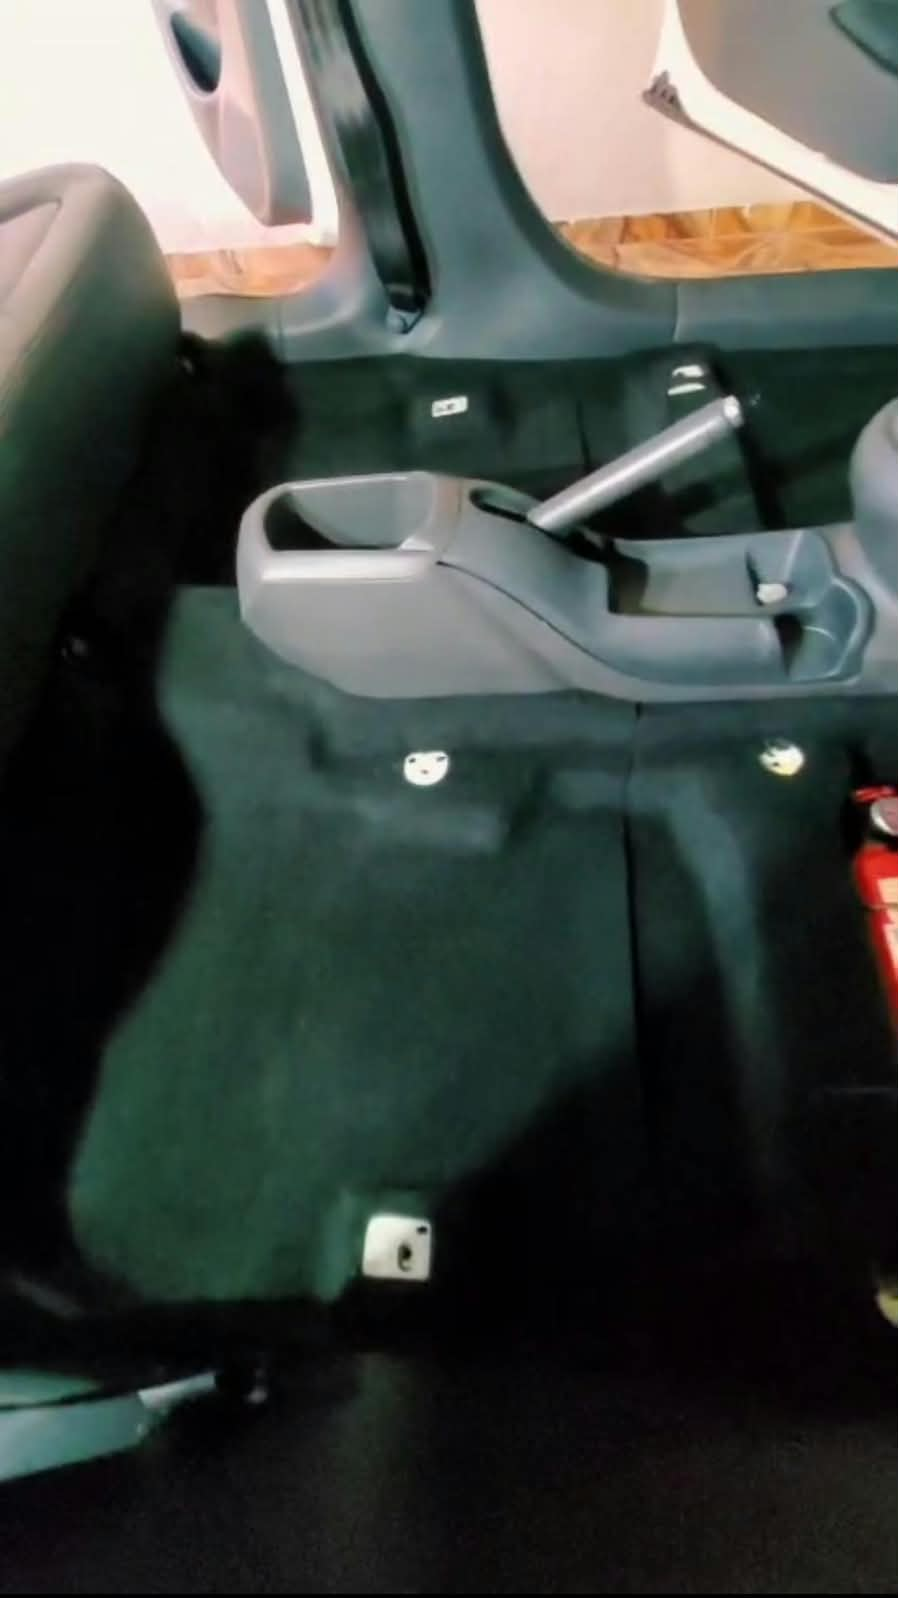
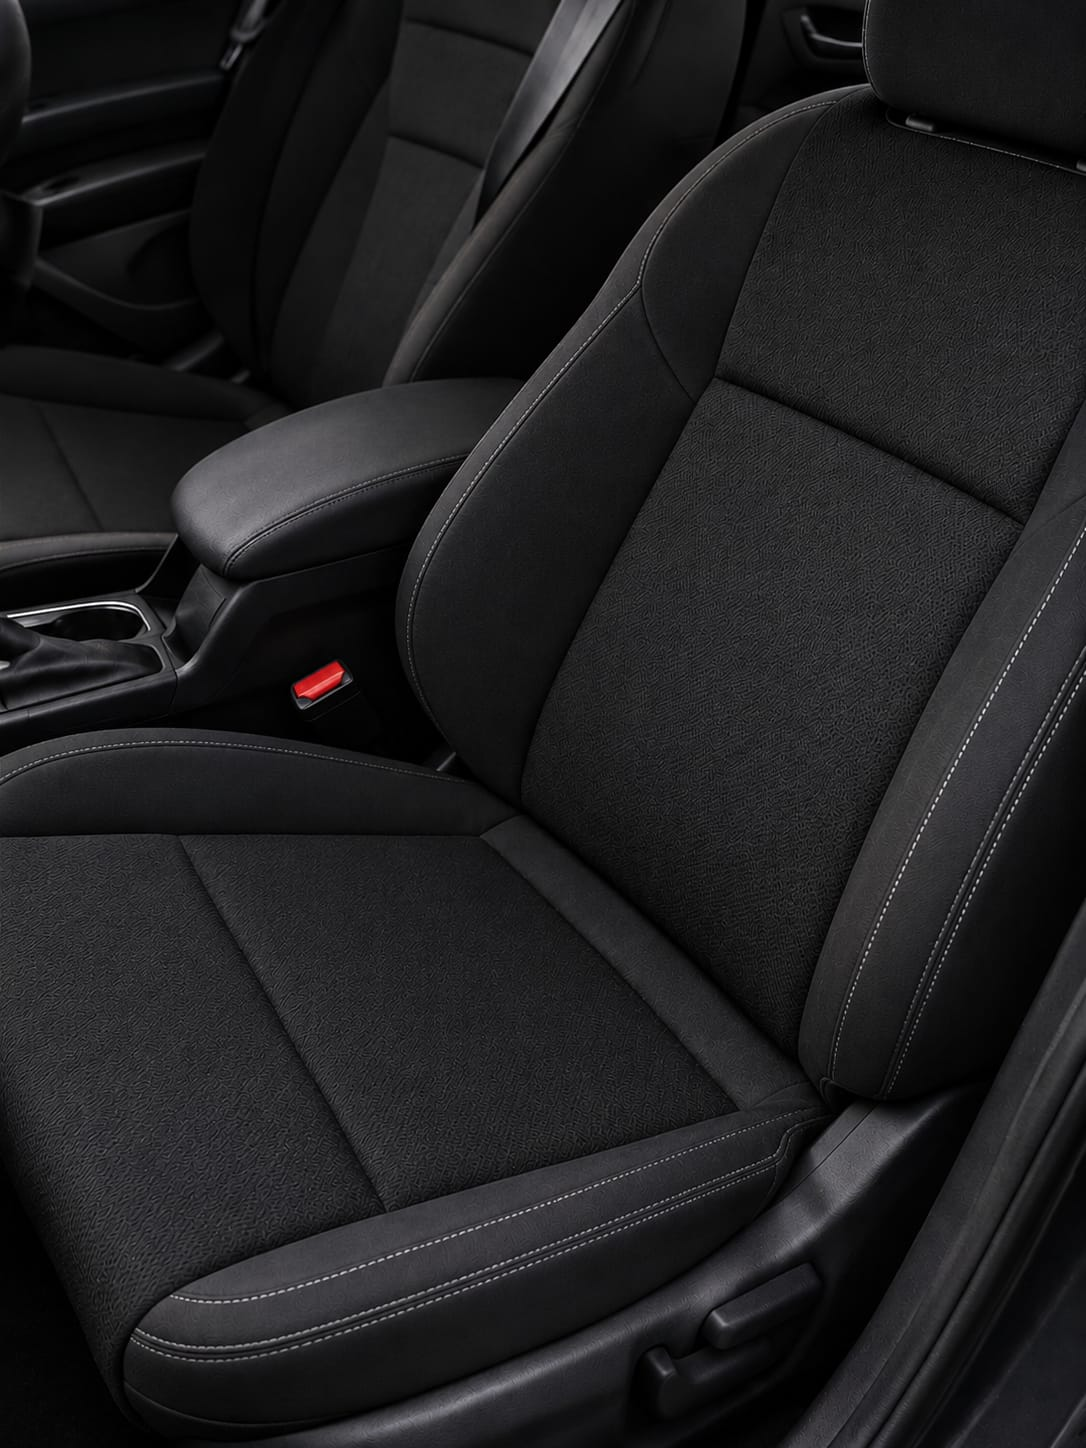
Atualiza arquivos index.html Turbo Studio

diff --git a/index.html b/index.html
@@ -84,7 +84,11 @@
             <figcaption>DEPOIS</figcaption></figure></div></article>
           <article class="resultado-card reveal"><div class="antes-depois"><figure><img src="imagens/pneu-antes.jpg" alt="Pneu antes da limpeza" loading="lazy"><figcaption>ANTES</figcaption></figure><figure><img src="imagens/pneu-depois.jpg" alt="Pneu depois da limpeza" loading="lazy">
             <figcaption>DEPOIS</figcaption></figure></div></article>
-        </div>
+                      <article class="resultado-card reveal"><div class="antes-depois"><figure><img src="imagens/banco-antes.jpg" alt="Banco antes da limpeza" loading="lazy"><figcaption>ANTES</figcaption></figure><figure><img src="imagens/banco-depois.jpg" alt="Banco depois da limpeza" loading="lazy">
+            <figcaption>DEPOIS</figcaption></figure></div></article>
+      <article class="resultado-card reveal"><div class="antes-depois"><figure><img src="imagens/carpete-antes.jpg" alt="Carpete antes da limpeza" loading="lazy"><figcaption>ANTES</figcaption></figure><figure><img src="imagens/carpete-depois.jpg" alt="Carpete depois da limpeza" loading="lazy">
+        <figcaption>DEPOIS</figcaption></figure></div></article>
+      </div>
       </div>
     </section>
     <section class="section testimonials" id="feedbacks" aria-labelledby="feedback-title">
